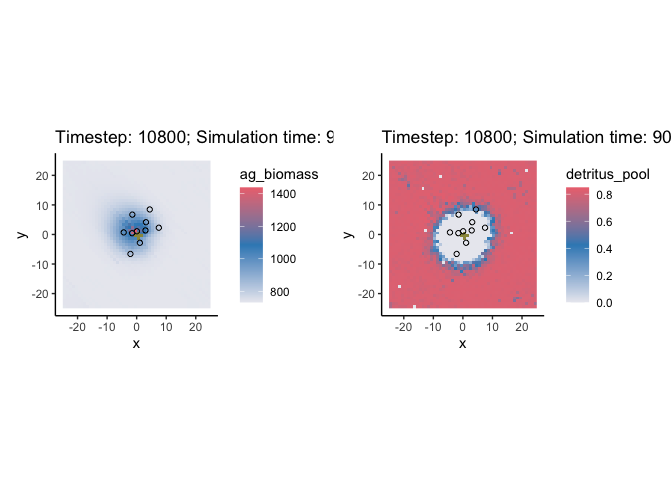
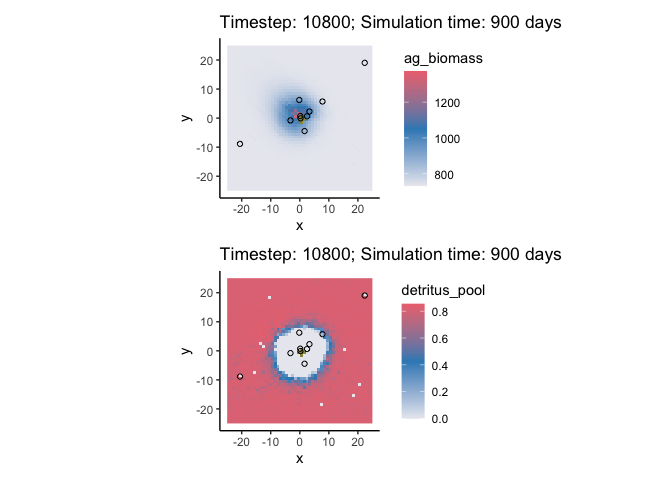
:white_check_mark: Okay...this file WAS needed

diff --git a/README.md b/README.md
@@ -102,13 +102,13 @@ result
 #> 
 #> Seafloor: (ag_biomass, bg_biomass, detritus_pool, detritus_dead, wc_nutrients)
 #> Minimum: 0, 0, 0, 0, 0.07
-#> Median: 733.40819, 2657.16919, 0.81441, 0, 0.07001
-#> Maximum: 1438.58249, 2657.16924, 0.84914, 0.24125, 0.07653
+#> Median: 732.97811, 2657.16919, 0.81655, 0, 0.07001
+#> Maximum: 1372.48677, 2657.16924, 0.85421, 0.20231, 0.07539
 #> 
 #> Fish population: (length, weight)
-#> Minimum: 5.59786, 2.80081
-#> Median: 7.91688, 8.38178
-#> Maximum: 16.14654, 79.7121
+#> Minimum: 4.77365, 1.6929
+#> Median: 7.89807, 8.32907
+#> Maximum: 11.10646, 24.42584
 #> Total deaths: 10
 ```
 
@@ -122,7 +122,7 @@ the whole `RasterBrick`
 gg_biomass <- plot(result, fill = "ag_biomass")
 gg_detritus <- plot(result, fill = "detritus_pool")
 
-gg_biomass + gg_detritus
+gg_biomass + gg_detritus + plot_layout(nrow = 2)
 ```
 
 <img src="man/figures/README-plot-1.png" width="100%" style="display: block; margin: auto;" />
